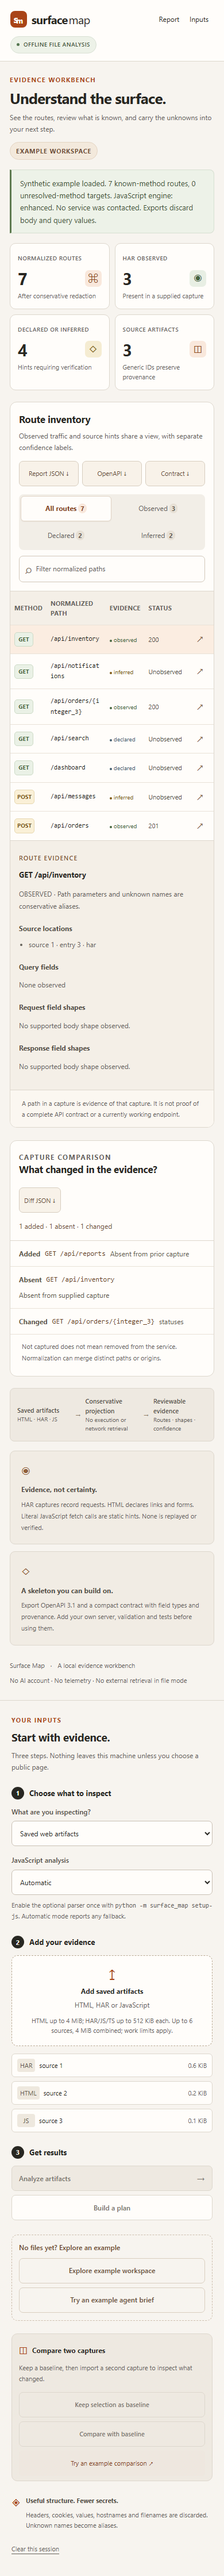
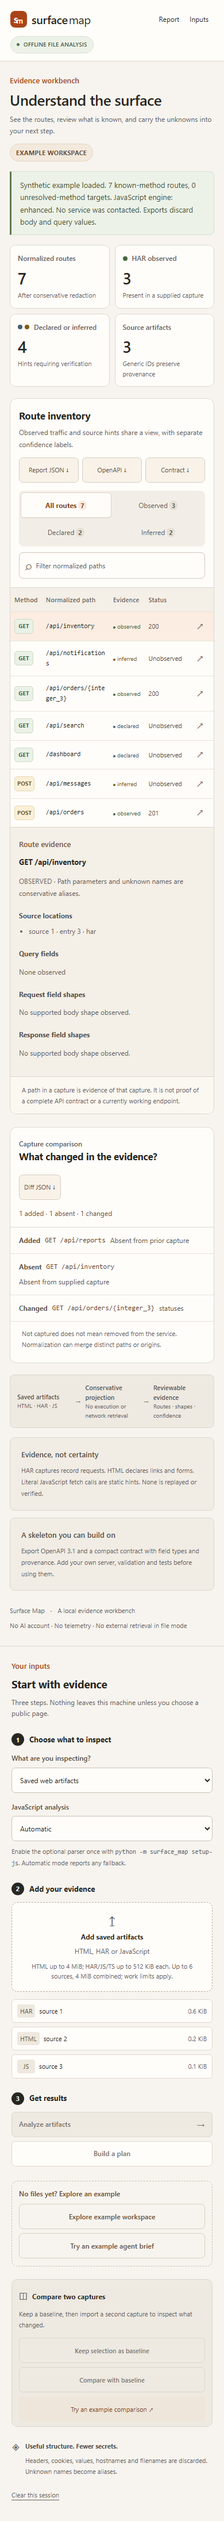
Refine interface hierarchy with product-specific Unslop guidance

diff --git a/surface_map/static/styles.css b/surface_map/static/styles.css
@@ -20,7 +20,7 @@ code { overflow-wrap:anywhere; }
 .skip-link { position:absolute; top:10px; left:12px; z-index:30; padding:10px 15px; border:1px solid var(--accent); border-radius:7px; background:var(--panel); transform:translateY(-170%); }
 .skip-link:focus { transform:none; }
 .topbar { min-height:66px; border-bottom:1px solid var(--line); background:var(--panel); display:flex; align-items:center; padding:12px 26px; gap:30px; }
-.brand { display:flex; align-items:center; gap:8px; font-size:22px; font-weight:750; letter-spacing:-.8px; flex-shrink:0; }
+.brand { display:flex; align-items:center; gap:8px; font-size:22px; font-weight:600; letter-spacing:-.4px; flex-shrink:0; }
 .brand-light { font-weight:450; margin-left:-6px; }
 .brand-symbol { display:inline-flex; align-items:center; justify-content:center; width:29px; height:29px; border-radius:8px; background:var(--accent); color:white; font-size:17px; letter-spacing:-3px; padding-right:4px; }
 .brand-symbol span { font-size:13px; margin-top:6px; }
@@ -30,13 +30,13 @@ code { overflow-wrap:anywhere; }
 .workspace-links { display:flex; gap:5px; margin-left:auto; }
 .workspace-links a { padding:8px 11px; border-radius:7px; font-size:12px; min-height:40px; display:inline-flex; align-items:center; }
 .workspace-links a:hover { background:var(--accent-wash); }
-.local-pill { display:inline-flex; align-items:center; font-weight:600; color:#3f5236; border:1px solid #d9e0d4; background:#edf2e8; border-radius:999px; padding:6px 10px; font-size:11px; letter-spacing:.45px; white-space:nowrap; }
+.local-pill { display:inline-flex; align-items:center; font-weight:600; color:#3f5236; border:1px solid #d9e0d4; background:#edf2e8; border-radius:999px; padding:6px 10px; font-size:11px; letter-spacing:.02em; white-space:nowrap; }
 .local-pill>span:first-child { display:inline-block; width:5px; height:5px; border-radius:50%; background:#557650; margin-right:7px; flex:none; }
 .local-pill #network-label { background:transparent; width:auto; height:auto; border-radius:0; margin:0; }
 .workspace { display:grid; grid-template-columns:264px minmax(0,1fr); min-height:calc(100vh - 66px); }
-.sidebar { padding:25px 18px 28px; border-right:1px solid var(--line); min-width:0; }
-.eyebrow { color:var(--accent); font-size:11px; font-weight:750; letter-spacing:1.35px; margin:0 0 8px; }
-h1 { margin:0 0 8px; font-size:clamp(25px,2.5vw,32px); line-height:1.2; font-weight:720; letter-spacing:-.9px; }
+.sidebar { padding:24px 16px 28px; border-right:1px solid var(--line); min-width:0; }
+.eyebrow { color:var(--accent); font-size:13px; font-weight:500; margin:0 0 8px; }
+h1 { margin:0 0 8px; font-size:clamp(25px,2.5vw,32px); line-height:1.2; font-weight:600; letter-spacing:-.02em; }
 h1 span { color:var(--muted); font-weight:450; }
 h2 { font-size:17px; line-height:1.4; letter-spacing:-.3px; margin:0 0 9px; font-weight:650; }
 .sidebar-intro { color:var(--muted); font-size:12px; line-height:1.65; margin:0 0 18px; overflow-wrap:anywhere; }
@@ -55,7 +55,7 @@ h2 { font-size:17px; line-height:1.4; letter-spacing:-.3px; margin:0 0 9px; font
 .upload-zone { position:relative; border:1px dashed #b9a993; border-radius:10px; background:var(--panel); padding:17px 10px; display:flex; align-items:center; flex-direction:column; text-align:center; cursor:pointer; gap:6px; }
 .upload-zone:hover { background:#faf0e4; }
 .upload-zone:focus-within { outline:3px solid var(--accent); outline-offset:3px; }
-.upload-icon { font-size:25px; line-height:1.1; color:var(--accent); }
+.upload-icon { font-size:24px; line-height:1.1; color:var(--muted); }
 .upload-zone strong { font-size:12px; font-weight:650; }
 .upload-zone>span:not(.upload-icon) { color:var(--muted); font-size:12px; }
 .upload-zone small { color:var(--muted); font-size:11px; margin-top:3px; }
@@ -76,21 +76,21 @@ h2 { font-size:17px; line-height:1.4; letter-spacing:-.3px; margin:0 0 9px; font
 .button.small { font-size:11px; min-height:44px; margin-bottom:7px; }
 .baseline-box { margin-top:22px; padding:15px 12px 8px; background:#eee9e1; border:1px solid var(--line); border-radius:10px; }
 .baseline-heading { display:flex; align-items:center; gap:8px; font-size:12px; }
-.baseline-heading>span { color:var(--accent); font-size:18px; }
+.baseline-heading>span { color:var(--muted); font-size:18px; }
 .baseline-heading strong { font-weight:650; }
 .baseline-box p { margin:8px 0 13px; font-size:11px; line-height:1.7; color:var(--muted); }
 .text-button { width:100%; border:0; border-radius:5px; min-height:44px; background:transparent; color:#84401f; font-size:11px; }
 .privacy-note { display:flex; gap:9px; padding-top:22px; }
-.privacy-note>span { color:var(--accent); font-size:19px; }
+.privacy-note>span { color:var(--muted); font-size:18px; }
 .privacy-note strong { font-size:11px; color:#514c44; font-weight:650; }
 .privacy-note p { margin:6px 0 0; font-size:11px; color:var(--muted); line-height:1.7; }
 .clear-button { min-height:44px; margin-top:9px; padding:9px 0; border:0; border-radius:4px; background:transparent; color:var(--muted); font-size:11px; text-decoration:underline; text-underline-offset:4px; }
 .selection-note { margin:8px 0 16px; font-size:11px; color:var(--muted); line-height:1.7; }
-main { width:100%; max-width:1500px; min-width:0; margin:0 auto; padding:29px 32px 25px; }
+main { width:100%; max-width:1500px; min-width:0; margin:0 auto; padding:28px 32px 24px; }
 #report,#inputs { scroll-margin-top:20px; }
 .page-heading { display:flex; justify-content:space-between; align-items:flex-start; gap:18px; }
 .intro { font-size:13px; color:var(--muted); line-height:1.7; margin:0; max-width:690px; }
-.workspace-mode { color:#6f4d35; background:#f3e9dc; border:1px solid #e4d4c2; border-radius:999px; padding:6px 10px; font-size:11px; font-weight:650; letter-spacing:.7px; white-space:nowrap; margin-top:3px; }
+.workspace-mode { color:#6f4d35; background:#f3e9dc; border:1px solid #e4d4c2; border-radius:999px; padding:6px 10px; font-size:11px; font-weight:650; letter-spacing:.02em; white-space:nowrap; margin-top:3px; }
 .notice { position:relative; overflow:hidden; margin:20px 0; padding:12px 15px; border:1px solid var(--line); border-left:3px solid #8f857a; border-radius:0 8px 8px 0; background:var(--panel); color:#4a453d; font-size:13px; line-height:1.65; overflow-wrap:anywhere; }
 .notice.success { color:#3f5236; background:#edf2e8; border-color:#d6dfd1; border-left-color:#5d7a4f; }
 .notice.error { color:#8a3420; background:#fbece5; border-color:#e6c4b8; border-left-color:#a94418; }
@@ -102,16 +102,16 @@ body.is-busy main { cursor:progress; }
 @keyframes sm-progress { 0% { transform:translateX(-100%); } 100% { transform:translateX(290%); } }
 .stats-grid { display:grid; grid-template-columns:repeat(4,minmax(0,1fr)); gap:12px; margin-bottom:20px; }
 .stats-grid article { padding:15px 16px 13px; border:1px solid var(--line); border-radius:10px; background:var(--panel); min-width:0; }
-.stats-grid article>span { color:var(--muted); font-size:11px; font-weight:600; letter-spacing:.5px; }
+.stats-grid article>span { display:flex; align-items:center; gap:8px; color:var(--muted); font-size:13px; font-weight:500; }
+/* Signature: the confidence dot, the same mark the route table uses for observed and inferred evidence. */
+.conf { width:8px; height:8px; border-radius:50%; flex:none; background:#476740; }
+.conf.inferred { background:#805b17; } .conf.declared { background:#476071; margin-right:-4px; }
 .stats-grid article>div { display:flex; align-items:center; justify-content:space-between; margin:7px 0 4px; }
-.stats-grid strong { font-size:29px; font-weight:650; letter-spacing:-.8px; line-height:1.25; }
-.stat-icon { display:grid; place-items:center; width:29px; height:29px; color:#8f491f; background:#f9e8dc; border-radius:7px; font-size:18px; }
-.stat-icon.amber { color:#805c14; background:#f5ecd2; }
-.stat-icon.green { color:#45633f; background:#e8efe4; }
+.stats-grid strong { font-size:28px; font-weight:500; line-height:1.25; font-variant-numeric:tabular-nums; }
 .stats-grid p { color:var(--muted); font-size:11px; line-height:1.6; margin:0; }
 .evidence-flow { display:flex; align-items:center; justify-content:space-between; padding:13px 18px; margin:20px 0 0; border:1px solid var(--line); border-radius:8px; background:#eee9e1; gap:8px; }
 .evidence-flow>div { display:grid; grid-template-columns:22px 1fr; gap:1px 7px; }
-.flow-icon { grid-row:1 / 3; align-self:center; color:#896a4f; font-size:19px; }
+.flow-icon { grid-row:1 / 3; align-self:center; color:var(--muted); font-size:18px; }
 .evidence-flow strong { color:#514c44; font-size:11px; font-weight:600; }
 .evidence-flow small { color:var(--muted); font-size:11px; }
 .flow-arrow { color:#8e7e6b; }
@@ -136,7 +136,7 @@ body.is-busy main { cursor:progress; }
 .inventory { display:grid; grid-template-columns:minmax(0,1fr) 270px; border-top:1px solid var(--line); min-height:330px; }
 .table-wrap { min-width:0; overflow-x:auto; }
 table { width:100%; border-collapse:collapse; text-align:left; }
-th { padding:14px 12px; background:#f4efe7; color:var(--muted); font-size:11px; font-weight:650; letter-spacing:.6px; }
+th { padding:12px; background:#f4efe7; color:var(--muted); font-size:12px; font-weight:500; }
 td { padding:13px 12px; border-top:1px solid #e9e2d8; color:#514c44; font-size:12px; }
 td:nth-child(2) { color:var(--ink); font:11px/1.65 ui-monospace,SFMono-Regular,Consolas,monospace; overflow-wrap:anywhere; }
 tbody tr.selected { background:#fbede1; }
@@ -151,7 +151,7 @@ tbody tr:hover { background:#f9f3ea; }
 .row-detail { width:44px; height:44px; padding:0; border:0; border-radius:5px; background:transparent; color:#856448; font-size:18px; }
 td:last-child { padding:2px; width:44px; }
 .detail-panel { min-width:0; border-left:1px solid var(--line); background:#f4efe7; padding:20px 17px; }
-.detail-label { color:#7c512e; font-size:11px; font-weight:600; letter-spacing:1px; }
+.detail-label { color:#7c512e; font-size:13px; font-weight:500; }
 .detail-panel h3 { color:var(--ink); font-size:13px; font-weight:650; line-height:1.6; margin:10px 0; overflow-wrap:anywhere; }
 .detail-panel p,.detail-panel li { color:var(--muted); font-size:12px; line-height:1.75; }
 .detail-panel ul { padding-left:17px; margin:8px 0 15px; }
@@ -161,8 +161,7 @@ td:last-child { padding:2px; width:44px; }
 .empty-table { margin:20px; padding:26px 22px; border:1px dashed #cdbfae; border-radius:10px; background:#fbf7f1; color:#5d554a; font-size:13px; line-height:1.7; max-width:560px; }
 .bottom-grid { display:grid; grid-template-columns:1fr 1fr; gap:15px; margin-top:20px; }
 .information { padding:19px; border:1px solid var(--line); border-radius:9px; background:#f1ece4; }
-.info-icon { color:#91613a; font-size:19px; }
-.information h3 { margin:9px 0 7px; color:#514c44; font-size:12px; font-weight:650; }
+.information h3 { margin:0 0 8px; color:#514c44; font-size:13px; font-weight:600; }
 .information p { max-width:440px; margin:0; color:var(--muted); font-size:11px; line-height:1.8; }
 footer { display:flex; justify-content:space-between; gap:18px; margin-top:25px; color:var(--muted); font-size:11px; line-height:1.8; }
 footer>span>span { padding:0 7px; }
@@ -213,11 +212,11 @@ footer>span>span { padding:0 7px; }
 .project-graph .source-empty+.source-empty { margin-top:8px; }
 @media(max-width:1240px) {
   .workspace { grid-template-columns:244px minmax(0,1fr); }
-  main { padding:26px 22px 23px; } .sidebar { padding:25px 16px; }
+  main { padding:24px 24px; } .sidebar { padding:24px 16px; }
   .inventory { grid-template-columns:minmax(0,1fr); }
   .detail-panel { border-left:0; border-top:1px solid var(--line); }
   .stats-grid { gap:9px; } .stats-grid article { padding:14px 12px; }
-  .stats-grid article>span { font-size:10px; } .stats-grid p { font-size:11px; }
+  .stats-grid article>span { font-size:12px; } .stats-grid p { font-size:11px; }
   .panel-title { align-items:flex-start; } .panel-title p { max-width:420px; }
   .breadcrumb { display:none; } .evidence-flow { padding:12px; }
 }
@@ -235,11 +234,11 @@ footer>span>span { padding:0 7px; }
   .workspace { display:flex; flex-direction:column; }
   /* Keep the report in view; the header's Inputs link reaches the full controls. */
   main { order:1; padding:23px 17px 25px; }
-  .sidebar { order:2; border-right:0; border-top:1px solid var(--line); padding:25px 20px; }
+  .sidebar { order:2; border-right:0; border-top:1px solid var(--line); padding:24px 20px; }
   .sidebar h2 { font-size:19px; } .sidebar-intro { max-width:650px; } .upload-zone { padding:18px; }
   .page-heading { gap:12px; } h1 { font-size:26px; } .intro { font-size:12px; }
   .notice { margin:17px 0; } .stats-grid { gap:9px; } .stats-grid article { padding:13px; }
-  .stats-grid article>span { font-size:10px; }
+  .stats-grid article>span { font-size:12px; }
   .evidence-flow { padding:13px 12px; gap:8px; } .evidence-flow>div { display:block; flex:1; }
   .evidence-flow strong { display:block; font-size:11px; } .evidence-flow small { display:block; font-size:10px; }
   .flow-icon { display:none; } .flow-arrow { font-size:11px; }

diff --git a/surface_map/static/index.html b/surface_map/static/index.html
@@ -10,7 +10,7 @@
   <header class="topbar"><a class="brand" href="/" aria-label="Surface Map home"><span class="brand-symbol" aria-hidden="true">s<span>m</span></span>surface<span class="brand-light">map</span></a><div class="breadcrumb">Workbench <span>/</span> <strong>Evidence workspace</strong></div><nav class="workspace-links" aria-label="Workspace sections"><a href="#report">Report</a><a href="#inputs">Inputs</a></nav><div class="local-pill"><span aria-hidden="true"></span><span id="network-label">OFFLINE FILE ANALYSIS</span></div></header>
   <div class="workspace">
     <aside class="sidebar" id="inputs" aria-label="Analysis inputs" tabindex="-1">
-      <p class="eyebrow">YOUR INPUTS</p><h2>Start with evidence.</h2><p class="sidebar-intro">Three steps. Nothing leaves this machine unless you choose a public page.</p>
+      <p class="eyebrow">Your inputs</p><h2>Start with evidence</h2><p class="sidebar-intro">Three steps. Nothing leaves this machine unless you choose a public page.</p>
       <p class="step"><span class="step-number" aria-hidden="true">1</span>Choose what to inspect</p>
       <label class="mode-label" for="analysis-mode">What are you inspecting?</label><select id="analysis-mode" class="mode-select"><option value="web">Saved web artifacts</option><option value="url">Public HTTPS page</option><option value="source">Selected source files</option><option value="project">Selected project files</option></select>
       <label class="mode-label" for="javascript-engine">JavaScript analysis</label><select id="javascript-engine" class="mode-select"><option value="auto">Automatic</option><option value="enhanced">Syntax and scope required</option><option value="basic">Basic lexical hints</option></select>
@@ -31,7 +31,7 @@
       <div class="privacy-note"><span>◈</span><div><strong>Useful structure. Fewer secrets.</strong><p>Headers, cookies, values, hostnames and filenames are discarded. Unknown names become aliases.</p></div></div><button id="clear" class="clear-button">Clear this session</button>
     </aside>
     <main id="report" tabindex="-1" aria-busy="false">
-      <div class="page-heading"><div><p class="eyebrow">EVIDENCE WORKBENCH</p><h1>Understand the surface.</h1><p class="intro">See the routes, review what is known, and carry the unknowns into your next step.</p></div><span id="workspace-mode" class="workspace-mode">EXAMPLE WORKSPACE</span></div>
+      <div class="page-heading"><div><p class="eyebrow">Evidence workbench</p><h1>Understand the surface</h1><p class="intro">See the routes, review what is known, and carry the unknowns into your next step.</p></div><span id="workspace-mode" class="workspace-mode">EXAMPLE WORKSPACE</span></div>
       <div id="notice" class="notice" role="status">Loading the synthetic example. No requests are made to the mapped service.</div>
       <section id="source-panel" class="source-panel" hidden aria-labelledby="source-heading">
         <div class="panel-title"><div><h2 id="source-heading">Static source inventory</h2><p id="source-description">Declared dependencies and inferred import hints, with generic source locations. No code is run.</p></div><button id="export-source" class="export-button" disabled>Inventory JSON ↓</button></div>
@@ -61,11 +61,11 @@
           <h3>What still needs your decisions</h3><ul id="plan-unknowns"></ul><details><summary>Operations and source evidence</summary><div id="plan-operations"></div></details><details><summary id="plan-candidate-summary">Other string references</summary><p class="source-empty">These are string candidates, not verified endpoints. They do not become operation stubs.</p><div id="plan-candidates"></div></details><details><summary>Gather better evidence</summary><ol id="plan-capture-guide"></ol></details><details><summary>Capture coverage</summary><div id="plan-coverage"></div></details><p id="plan-scope" class="source-empty"></p>
         </div>
       </section>
-      <div class="stats-grid"><article><span>NORMALIZED ROUTES</span><div><strong id="routes-count">0</strong><span class="stat-icon">⌘</span></div><p>After conservative redaction</p></article><article><span>HAR OBSERVED</span><div><strong id="observed-count">0</strong><span class="stat-icon green">◉</span></div><p>Present in a supplied capture</p></article><article><span>DECLARED OR INFERRED</span><div><strong id="inferred-count">0</strong><span class="stat-icon amber">◇</span></div><p>Hints requiring verification</p></article><article><span>SOURCE ARTIFACTS</span><div><strong id="sources-count">0</strong><span class="stat-icon">◫</span></div><p>Generic IDs preserve provenance</p></article></div>
-      <section class="map-panel"><div class="panel-title"><div><h2>Route inventory</h2><p>Observed traffic and source hints share a view, with separate confidence labels.</p></div><div class="exports"><button id="export-report" class="export-button" disabled>Report JSON ↓</button><button id="export-openapi" class="export-button" disabled>OpenAPI ↓</button><button id="export-contract" class="export-button" disabled>Contract ↓</button></div></div><div class="toolbar"><div class="filters" role="group" aria-label="Confidence filter"><button class="selected" data-filter="all" aria-pressed="true">All routes</button><button data-filter="observed" aria-pressed="false">Observed</button><button data-filter="declared" aria-pressed="false">Declared</button><button data-filter="inferred" aria-pressed="false">Inferred</button></div><label class="search"><span>⌕</span><input id="search" type="search" placeholder="Filter normalized paths" aria-label="Filter normalized paths"></label></div><div class="inventory"><div class="table-wrap"><table><thead><tr><th>METHOD</th><th>NORMALIZED PATH</th><th>EVIDENCE</th><th>STATUS</th><th></th></tr></thead><tbody id="route-rows"></tbody></table><p id="empty-routes" class="empty-table" hidden>No routes match this view.</p></div><aside id="detail" class="detail-panel"><span class="detail-label">SELECT A ROUTE</span><h3>Inspect the evidence.</h3><p>Review its source locations and value-free field shapes here.</p></aside></div><div class="map-footnote">A path in a capture is evidence of that capture. It is not proof of a complete API contract or a currently working endpoint.</div></section>
-      <section id="diff-panel" class="diff-panel" hidden><div class="panel-title"><div><p class="eyebrow">CAPTURE COMPARISON</p><h2>What changed in the evidence?</h2></div><button id="export-diff" class="export-button">Diff JSON ↓</button></div><div id="diff-summary" class="diff-summary"></div><div id="diff-list" class="diff-list"></div><p class="diff-note">Not captured does not mean removed from the service. Normalization can merge distinct paths or origins.</p></section>
+      <div class="stats-grid"><article><span>Normalized routes</span><div><strong id="routes-count">0</strong></div><p>After conservative redaction</p></article><article><span><i class="conf observed" aria-hidden="true"></i>HAR observed</span><div><strong id="observed-count">0</strong></div><p>Present in a supplied capture</p></article><article><span><i class="conf declared" aria-hidden="true"></i><i class="conf inferred" aria-hidden="true"></i>Declared or inferred</span><div><strong id="inferred-count">0</strong></div><p>Hints requiring verification</p></article><article><span>Source artifacts</span><div><strong id="sources-count">0</strong></div><p>Generic IDs preserve provenance</p></article></div>
+      <section class="map-panel"><div class="panel-title"><div><h2>Route inventory</h2><p>Observed traffic and source hints share a view, with separate confidence labels.</p></div><div class="exports"><button id="export-report" class="export-button" disabled>Report JSON ↓</button><button id="export-openapi" class="export-button" disabled>OpenAPI ↓</button><button id="export-contract" class="export-button" disabled>Contract ↓</button></div></div><div class="toolbar"><div class="filters" role="group" aria-label="Confidence filter"><button class="selected" data-filter="all" aria-pressed="true">All routes</button><button data-filter="observed" aria-pressed="false">Observed</button><button data-filter="declared" aria-pressed="false">Declared</button><button data-filter="inferred" aria-pressed="false">Inferred</button></div><label class="search"><span>⌕</span><input id="search" type="search" placeholder="Filter normalized paths" aria-label="Filter normalized paths"></label></div><div class="inventory"><div class="table-wrap"><table><thead><tr><th>Method</th><th>Normalized path</th><th>Evidence</th><th>Status</th><th></th></tr></thead><tbody id="route-rows"></tbody></table><p id="empty-routes" class="empty-table" hidden>No routes match this view.</p></div><aside id="detail" class="detail-panel"><span class="detail-label">Select a route</span><h3>Inspect the evidence</h3><p>Review its source locations and value-free field shapes here.</p></aside></div><div class="map-footnote">A path in a capture is evidence of that capture. It is not proof of a complete API contract or a currently working endpoint.</div></section>
+      <section id="diff-panel" class="diff-panel" hidden><div class="panel-title"><div><p class="eyebrow">Capture comparison</p><h2>What changed in the evidence?</h2></div><button id="export-diff" class="export-button">Diff JSON ↓</button></div><div id="diff-summary" class="diff-summary"></div><div id="diff-list" class="diff-list"></div><p class="diff-note">Not captured does not mean removed from the service. Normalization can merge distinct paths or origins.</p></section>
       <section class="evidence-flow" aria-label="Analysis pipeline"><div><span class="flow-icon">◫</span><strong id="flow-input">Saved artifacts</strong><small>HTML · HAR · JS</small></div><span class="flow-arrow">→</span><div><span class="flow-icon">◇</span><strong>Conservative projection</strong><small id="flow-scope">No execution or network retrieval</small></div><span class="flow-arrow">→</span><div><span class="flow-icon">⌘</span><strong>Reviewable evidence</strong><small>Routes · shapes · confidence</small></div></section>
-      <section class="bottom-grid"><article class="information"><span class="info-icon">◉</span><h3>Evidence, not certainty.</h3><p>HAR captures record requests. HTML declares links and forms. Literal JavaScript fetch calls are static hints. None is replayed or verified.</p></article><article class="information"><span class="info-icon">◇</span><h3>A skeleton you can build on.</h3><p>Export OpenAPI 3.1 and a compact contract with field types and provenance. Add your own server, validation and tests before using them.</p></article></section>
+      <section class="bottom-grid"><article class="information"><h3>Evidence, not certainty</h3><p>HAR captures record requests. HTML declares links and forms. Literal JavaScript fetch calls are static hints. None is replayed or verified.</p></article><article class="information"><h3>A skeleton you can build on</h3><p>Export OpenAPI 3.1 and a compact contract with field types and provenance. Add your own server, validation and tests before using them.</p></article></section>
       <footer><span>Surface Map <span>·</span> A local evidence workbench</span><span id="footer-scope">No AI account · No telemetry · No external retrieval in file mode</span></footer>
     </main>
   </div>

diff --git a/surface_map/static/app.js b/surface_map/static/app.js
@@ -100,7 +100,7 @@ function sourceList(sources) {
 
 function details(route) {
   const panel = $("#detail"); panel.replaceChildren();
-  panel.append(node("span", "detail-label", "ROUTE EVIDENCE"), node("h3", "", `${route.method || "METHOD UNKNOWN"} ${route.path}`), node("p", "", `${route.confidence.toUpperCase()} · Path parameters and unknown names are conservative aliases.`));
+  panel.append(node("span", "detail-label", "Route evidence"), node("h3", "", `${route.method || "METHOD UNKNOWN"} ${route.path}`), node("p", "", `${route.confidence.toUpperCase()} · Path parameters and unknown names are conservative aliases.`));
   if (!route.method) panel.append(node("p", "", "The target is known, but its method is unresolved. This is retained as an extension, never invented as an OpenAPI operation."));
   const origins = {same_origin: "Same origin as the page", cross_origin: "Different origin from the page", unknown: "Origin could not be determined"};
   if (route.origin_relations?.length) panel.append(node("h4", "", "Origin context"), node("p", "", route.origin_relations.map(value => origins[value] || origins.unknown).join("; ")));
@@ -165,7 +165,7 @@ function show(result, example = false) {
   $("#workspace-mode").textContent = example ? "EXAMPLE WORKSPACE" : "YOUR SAVED ARTIFACTS";
   sourceList(report.sources); table();
   if (routes.length) { selected = routes[0].id; details(routes[0]); table(); }
-  else emptyDetail("NO ROUTES RETAINED", "Nothing to inspect yet.", "Supported routes, forms and literal requests appear here with their source locations. A HAR capture usually gives the strongest evidence.");
+  else emptyDetail("No routes retained", "Nothing to inspect yet", "Supported routes, forms and literal requests appear here with their source locations. A HAR capture usually gives the strongest evidence.");
   const engines = [...new Set((report.javascript_analysis || []).map(item => item.engine))].join(", ");
   notice(`${example ? "Synthetic example loaded." : "Analysis complete."} ${report.routes.length} known-method routes, ${(report.unresolved_operations || []).length} unresolved-method targets. ${engines ? `JavaScript engine: ${engines}. ` : ""}${report.warnings.length ? `${report.warnings.length} analysis warnings; inspect the report. ` : ""}${publicMode() ? "A public page and selected scripts were fetched; discovered forms and APIs were not called." : "No service was contacted."} Exports discard body and query values.`, false, "success");
   refresh();
@@ -480,7 +480,7 @@ function resetWorkspace(clearURL = true) {
   $("#source-list").replaceChildren(); $("#diff-panel").hidden=true;
   for (const id of ["routes", "observed", "inferred", "sources"]) $("#"+id+"-count").textContent="0";
   $("#workspace-mode").textContent = modeLabel();
-  emptyDetail("SESSION CLEARED", "Nothing selected.", "Add evidence in the inputs panel, or explore an example. The server does not retain uploads or reports.");
+  emptyDetail("Session cleared", "Nothing selected", "Add evidence in the inputs panel, or explore an example. The server does not retain uploads or reports.");
   $("#baseline-status").textContent="No baseline kept. All files and reports have been cleared from this workspace.";
   clearSourceView(); clearPlan(); table(); refresh();
 }
@@ -516,7 +516,7 @@ $("#files").addEventListener("change", () => {
   files = Array.from($("#files").files); current = null; selected = null; diff = null; $("#diff-panel").hidden = true;
   for (const id of ["routes", "observed", "inferred", "sources"]) $("#"+id+"-count").textContent = "0";
   $("#workspace-mode").textContent = modeLabel();
-  emptyDetail("SELECTION READY", "Selection awaiting analysis.", "Analyze artifacts to map routes, or build a plan for an agent brief. Nothing is sent until you choose an action.");
+  emptyDetail("Selection ready", "Selection awaiting analysis", "Analyze artifacts to map routes, or build a plan for an agent brief. Nothing is sent until you choose an action.");
   sourceList(files.map((file,index) => ({id:`source_${index + 1}`,kind:kind(file) || "unsupported",bytes:file.size})));
   table(); notice("Selection ready. Analyze artifacts to build a fresh evidence map."); refresh();
 });

diff --git a/surface_map/__init__.py b/surface_map/__init__.py
@@ -1,3 +1,3 @@
 """Offline artifact reconstruction with conservative data minimization."""
 
-__version__ = "1.6.1"
+__version__ = "1.6.2"

diff --git a/README.md b/README.md
@@ -152,6 +152,10 @@ the actual interface with synthetic data. [REA comparison and verified inventory
 explain where a broader reverse-engineering tool is stronger and what this
 bounded evidence tool can demonstrate.
 
+Interface refinement also used [Unslop](https://github.com/heydamir/unslop) by
+Damir Sokolovsky, licensed under CC BY 4.0. The product behavior and validation
+remain this repository's own work.
+
 ## Help us find what it misses
 
 Try one flow you own or are authorized to inspect. Tell us what was wrong,
